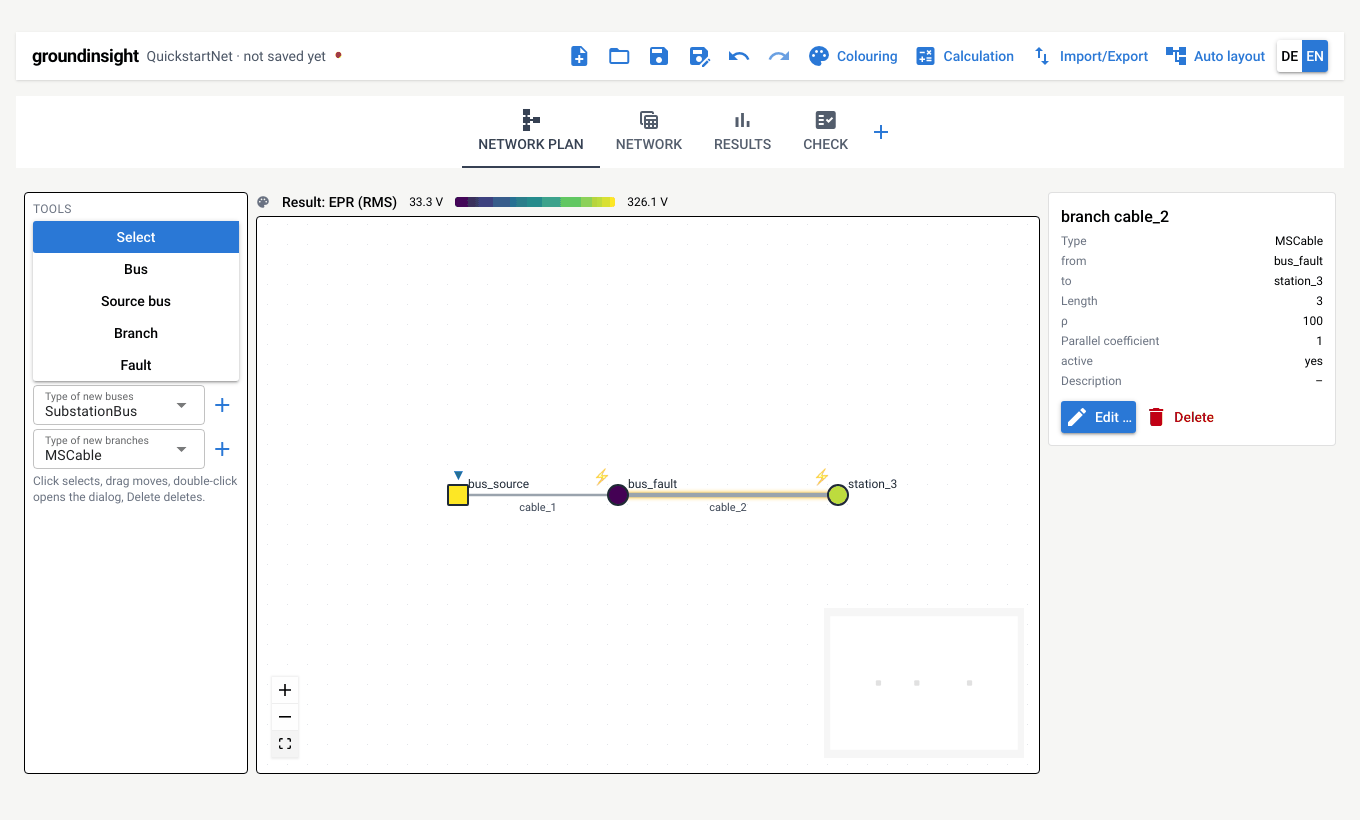
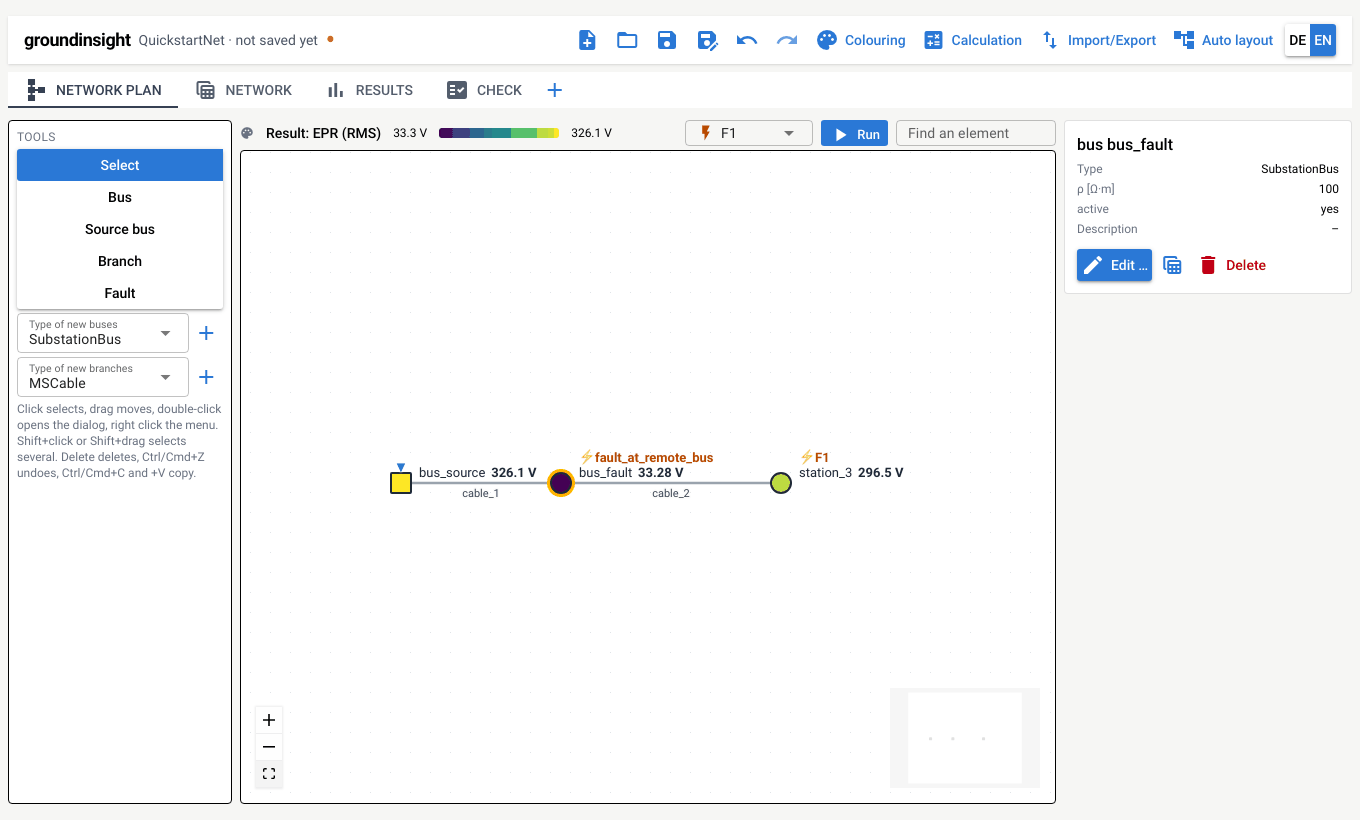
docs: the GUI tutorial with the plan edited like a drawing and solved in place
Selection of several elements, copy and paste, the context menu, the keys,
the fault field and Run above the plan, the values at the buses, the
question before unsaved changes are replaced; new pictures. CHANGELOG and
the README of the GUI name the same.

diff --git a/docs/getting-started/gui.md b/docs/getting-started/gui.md
@@ -44,20 +44,43 @@ In the **Tools** palette on the left:
    the canvas to the right of `bus_fault`. A bus `B1` appears.
 2. Choose **Branch**, keep *Type of new branches* at `MSCable`, and drag from
    `bus_fault` to `B1`. A 1 km cable `L1` connects them.
-3. Choose **Select** again. A click selects an element and shows it in the
-   *Properties* panel on the right; dragging moves a symbol on the raster.
+3. Choose **Select** again (or press Esc). A click selects an element and
+   shows it in the *Properties* panel on the right; dragging moves a symbol
+   on the raster.
 
 ![The plan with the new bus B1 and the cable L1, which is selected](img/gui-drawn.png)
 
 Double-click `B1`. In the dialog, set *Name* to `station_3` and keep
-ρ = 100 Ω·m; **Apply**. Double-click the cable `L1`, set *Name* to `cable_2`
-and *Length / km* to `3`; **Apply**.
+ρ = 100 Ω·m; **Apply** (or Enter). Double-click the cable `L1`, set *Name* to
+`cable_2` and *Length / km* to `3`; **Apply**. An entry that cannot be read —
+text where a number belongs, a name that is taken — is marked at its field
+and nothing is applied.
 
 ![The element dialog of the new bus, with the tabs General, Source, Fault and Earthing characteristic](img/gui-dialog.png)
 
 Every change is one step of the service layer: **Undo** and **Redo** in the
-toolbar take it back and forth, and a change the library refuses — a
-duplicate name, a negative length — is not applied and says why.
+toolbar (Ctrl/Cmd+Z, Shift+Ctrl/Cmd+Z) take it back and forth, and a change
+the library refuses — a negative length — is not applied and says why.
+
+The plan is edited like a drawing:
+
+- Shift (or Ctrl/Cmd) and a click add an element to the selection or take it
+  away; Shift and a drag draw a frame around several. A selected group is
+  moved by dragging one of its symbols and deleted with Delete — one step
+  each.
+- Ctrl/Cmd+C and Ctrl/Cmd+V copy the selection to where the pointer is,
+  Ctrl/Cmd+D beside the original: a bus with its fields and its infeed, a
+  branch with its fields. A branch copied without its buses is a parallel
+  branch, drawn beside the first.
+- A right click opens the menu of the element under the pointer — edit,
+  duplicate, set a fault or an infeed, open or close the switch, show in
+  the table, delete — and on the empty pane: place a bus here, paste, select
+  all, show the whole plan.
+
+  ![The context menu of a bus: Edit, Duplicate, Set a fault here, Set an infeed here, Show in the table, Delete](img/gui-menu.png)
+- *Find an element* above the plan takes a name and moves that bus or branch
+  into the middle; *Show in the plan* under the tables of the *Network* tab
+  does the same for the selected row.
 
 !!! tip "Other types"
 
@@ -69,14 +92,27 @@ duplicate name, a negative length — is not applied and says why.
 
 ## 3. Put a fault at the new station
 
-Choose **Fault** and click `station_3`. The fault `F1` carries a scaling of
-1 at every frequency, so the infeed's harmonics flow to it as well. (The
-fault of the template scales 50 Hz only.)
+Choose **Fault** and click `station_3` (or right-click it and choose *Set a
+fault here*). The fault `F1` carries a scaling of 1 at every frequency, so
+the infeed's harmonics flow to it as well. (The fault of the template scales
+50 Hz only.) Its name, its duration and its scalings are on the *Fault* tab
+of the bus dialog.
 
 ## 4. Solve and read the results
 
-**Calculation → Solve the fault** opens the *Results* tab. Choose `F1` under
-*Fault* and press **Run**.
+Above the plan, choose `F1` in the fault field and press **Run**. The plan
+stays in front and shows the result: every bus is coloured by its earth
+potential rise and carries the value after its name.
+
+![The plan coloured by the EPR, from 33 V at bus_fault to 326 V at bus_source](img/gui-epr.png)
+
+**Colouring** in the toolbar switches to another quantity — the touch
+voltage, the shield current of every branch, the utilisation of a limit — or
+back to the types. After an edit that changes the result, the values turn
+grey and the legend says *stale* until the fault is run again.
+
+The *Results* tab has the details (**Calculation → Solve the fault** runs the
+fault from there):
 
 ![The results of F1: key figures, EPR per bus, the key figures per frequency](img/gui-results.png)
 
@@ -89,16 +125,12 @@ the calculation. The line at the bottom names the revision of the network and
 its input digest: after an edit the result is marked stale until you run it
 again.
 
-Back in the *Network plan*, **Colouring → Result: EPR (RMS)** colours every
-bus by its EPR; the fit button of the canvas (bottom left) shows the whole
-network.
-
-![The plan coloured by the EPR, from 33 V at bus_fault to 326 V at bus_source](img/gui-epr.png)
-
-**Save as** opens the file manager: walk to a folder, type a name and save.
-The project file holds network, plan, evaluation tabs and the assessment
-criteria in one JSON file that the library reads with `gi.load_project`;
-**Open** lists the project files of a folder the same way.
+**Save as** (or Ctrl/Cmd+S for a project that has a file) opens the file
+manager: walk to a folder, type a name and save. The project file holds
+network, plan, evaluation tabs and the assessment criteria in one JSON file
+that the library reads with `gi.load_project`; **Open** lists the project
+files of a folder the same way. A project with unsaved changes — the dot
+beside its name — is not replaced or closed without a question.
 
 ## 5. The same network with the library
 

diff --git a/CHANGELOG.md b/CHANGELOG.md
@@ -241,6 +241,37 @@ version section when a release is cut.
   impedance, diagnostics, with a legend) and *Auto layout* (groundinsight's
   layout, or elkjs in the browser). Every gesture is a command of the service
   layer; the browser decides nothing about the network.
+- **GUI: the plan is edited like a drawing.** Several elements are selected
+  with Shift, Ctrl or Cmd and a click or with Shift and a dragged frame, and
+  moved or deleted as one undo step; Ctrl/Cmd+C and +V (or +D) copy buses
+  with their fields, their own characteristic and their infeed, and
+  branches (a branch copied alone is a parallel branch); a right click opens
+  a context menu on a bus, a branch, a selection and the pane; Ctrl/Cmd+Z,
+  Shift+Ctrl/Cmd+Z, Ctrl/Cmd+S, Escape and Ctrl/Cmd+A work as expected.
+  Parallel branches are drawn side by side.
+- **GUI: results on the plan.** A numerical colouring writes its value
+  after the name of each bus or branch, greyed and marked *stale* in the
+  legend once an input has changed; fault marks carry the fault's name and
+  tooltips name type, value, faults and sources. The fault is chosen and
+  solved from the plan, which then shows the EPR without a change of tab.
+  Names keep their size on screen while the plan is zoomed out and are
+  hidden only where they would overlap; the fit leaves room for them.
+- **GUI: the plan is the main view.** A flat toolbar and tab row, and a
+  page as high as the window: the plan starts at 150 px instead of 264 and
+  ends at the bottom edge, at 1280 x 800 too. The title names the project
+  file, its tooltip the path.
+- **GUI: finding an element.** *Show in the plan* under the tables (the
+  element selected and moved into the middle), *Show in the table* in the
+  properties and the context menu, a search field over the tables and one
+  in the plan.
+- **GUI: dialogs.** The name has the focus, Enter applies; a wrong number,
+  a missing name and a name that is taken are reported at their field in
+  the language of the page. The fault and the infeed of a bus are named and
+  renamed in the bus dialog; evaluation tabs are renamed; every dialog has
+  *Cancel*. Properties and type parameters carry their units.
+- **GUI: unsaved changes.** A template, *Open* and an import ask before
+  they replace a project with unsaved changes (cancel, discard, save and go
+  on); the browser asks before the page is left or reloaded.
 - **More study jobs in the service layer.** `CutsRequestDTO`
   (`analyze_cuts`), `BusResponseRequestDTO` (`bus_response`, with an
   electrode sweep), `ThermalRequestDTO` (`check_conductor_limits` /
@@ -378,6 +409,11 @@ version section when a release is cut.
   (`from_file`, `save`), and with it the GUI's *Open* and *Save as* and the
   command line, expand `~/projekt.json` and `$HOME/projekt.json`; before,
   the path was taken literally and failed with "No such file or directory".
+- **GUI: the tile of the reduction factor read "R = IE / IF".** The tile
+  titles were set in upper case by style, which turned the reduction factor
+  `r` into an `R`; they are shown as written.
+- **GUI: a column header named its unit twice** ("Ik'' [A] [A]" in the
+  sources table).
 - **Changing the frequencies keeps the fault scalings complete.**
   `api.SetFrequencies` gives a fault with scalings the scaling 1.0 at every
   new frequency and drops the scaling of a removed one (undo restores

diff --git a/gui/README.md b/gui/README.md
@@ -47,11 +47,17 @@ environment; without it the button is disabled and says why.
   utilisation, origin of the earthing impedance or diagnostics, and automatic
   layout (groundinsight's, or elkjs in the browser). Every gesture is one
   command of the service layer and one undo step; plan and tables share the
-  selection;
+  selection. Several elements are selected with Shift and a click or a
+  dragged frame and moved, copied (Ctrl/Cmd+C, +V, +D) or deleted as one; a
+  right click opens a context menu; Ctrl/Cmd+Z, Shift+Ctrl/Cmd+Z, Ctrl/Cmd+S,
+  Escape and Ctrl/Cmd+A work. A numerical colouring writes its value at
+  every bus or branch, the fault is chosen and solved above the plan, and a
+  search field finds an element by its name. The plan fills the window;
 * network tables: buses, branches, sources, faults and the type catalogue,
   editable cell by cell; every edit is a command of the service layer and can
   be undone; a rejected edit changes nothing and says why. The frequencies of
-  the network can be changed above the tables;
+  the network can be changed above the tables; a search field filters every
+  table, and a row is shown in the plan;
 * type catalogue: new types, editing every field of a type (a rename
   included, its elements follow), copies, and types from groundinsight's
   standard library -- 20 kV cable systems and NAYY cables from data sheets,
